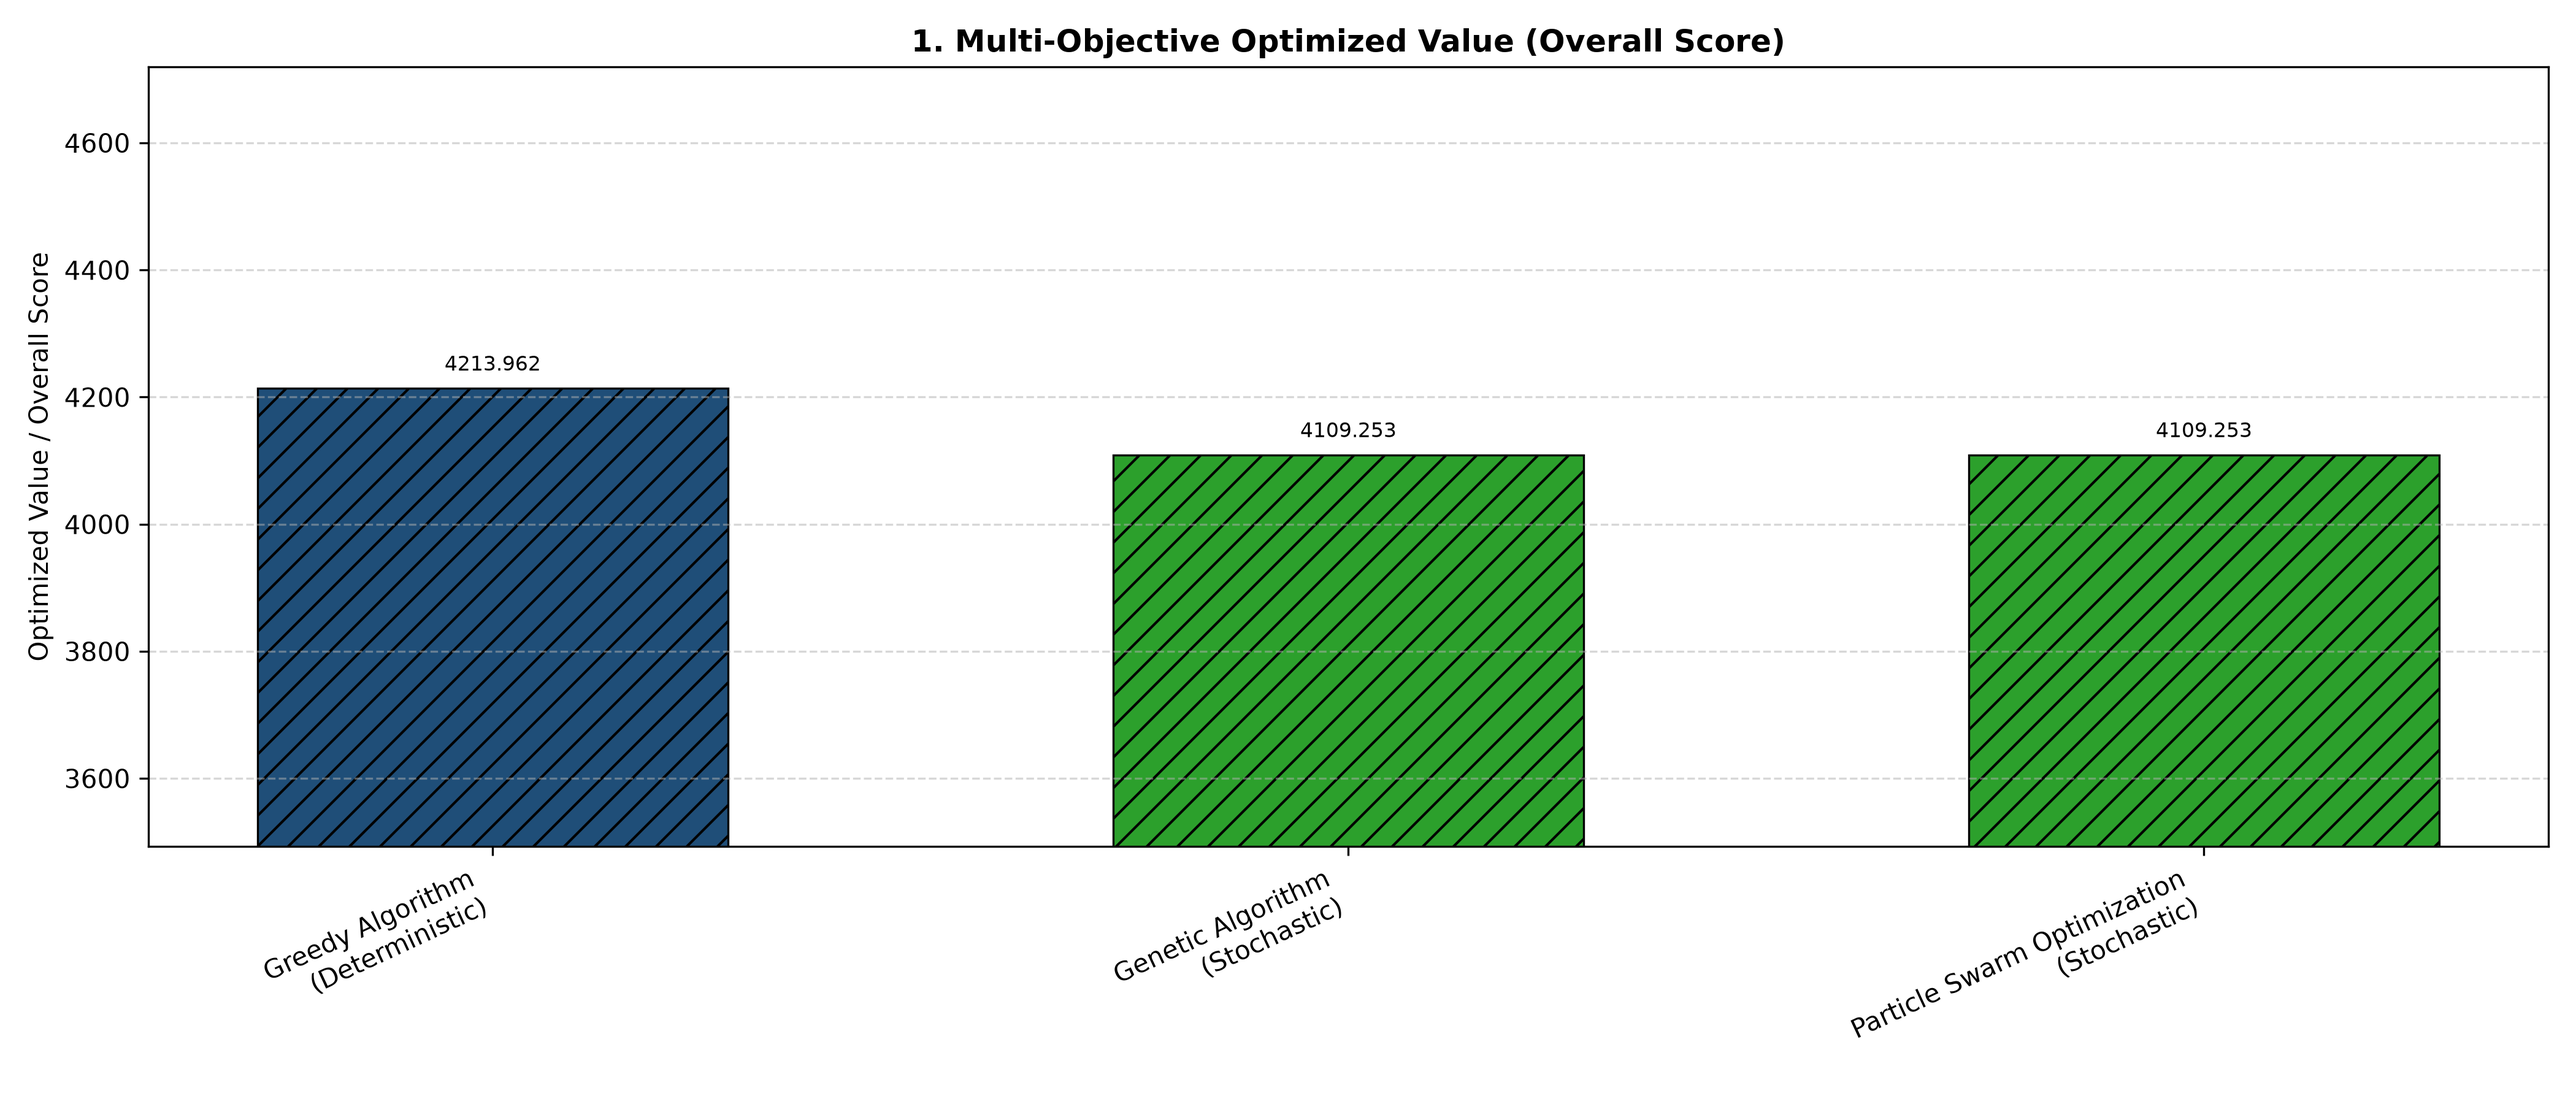
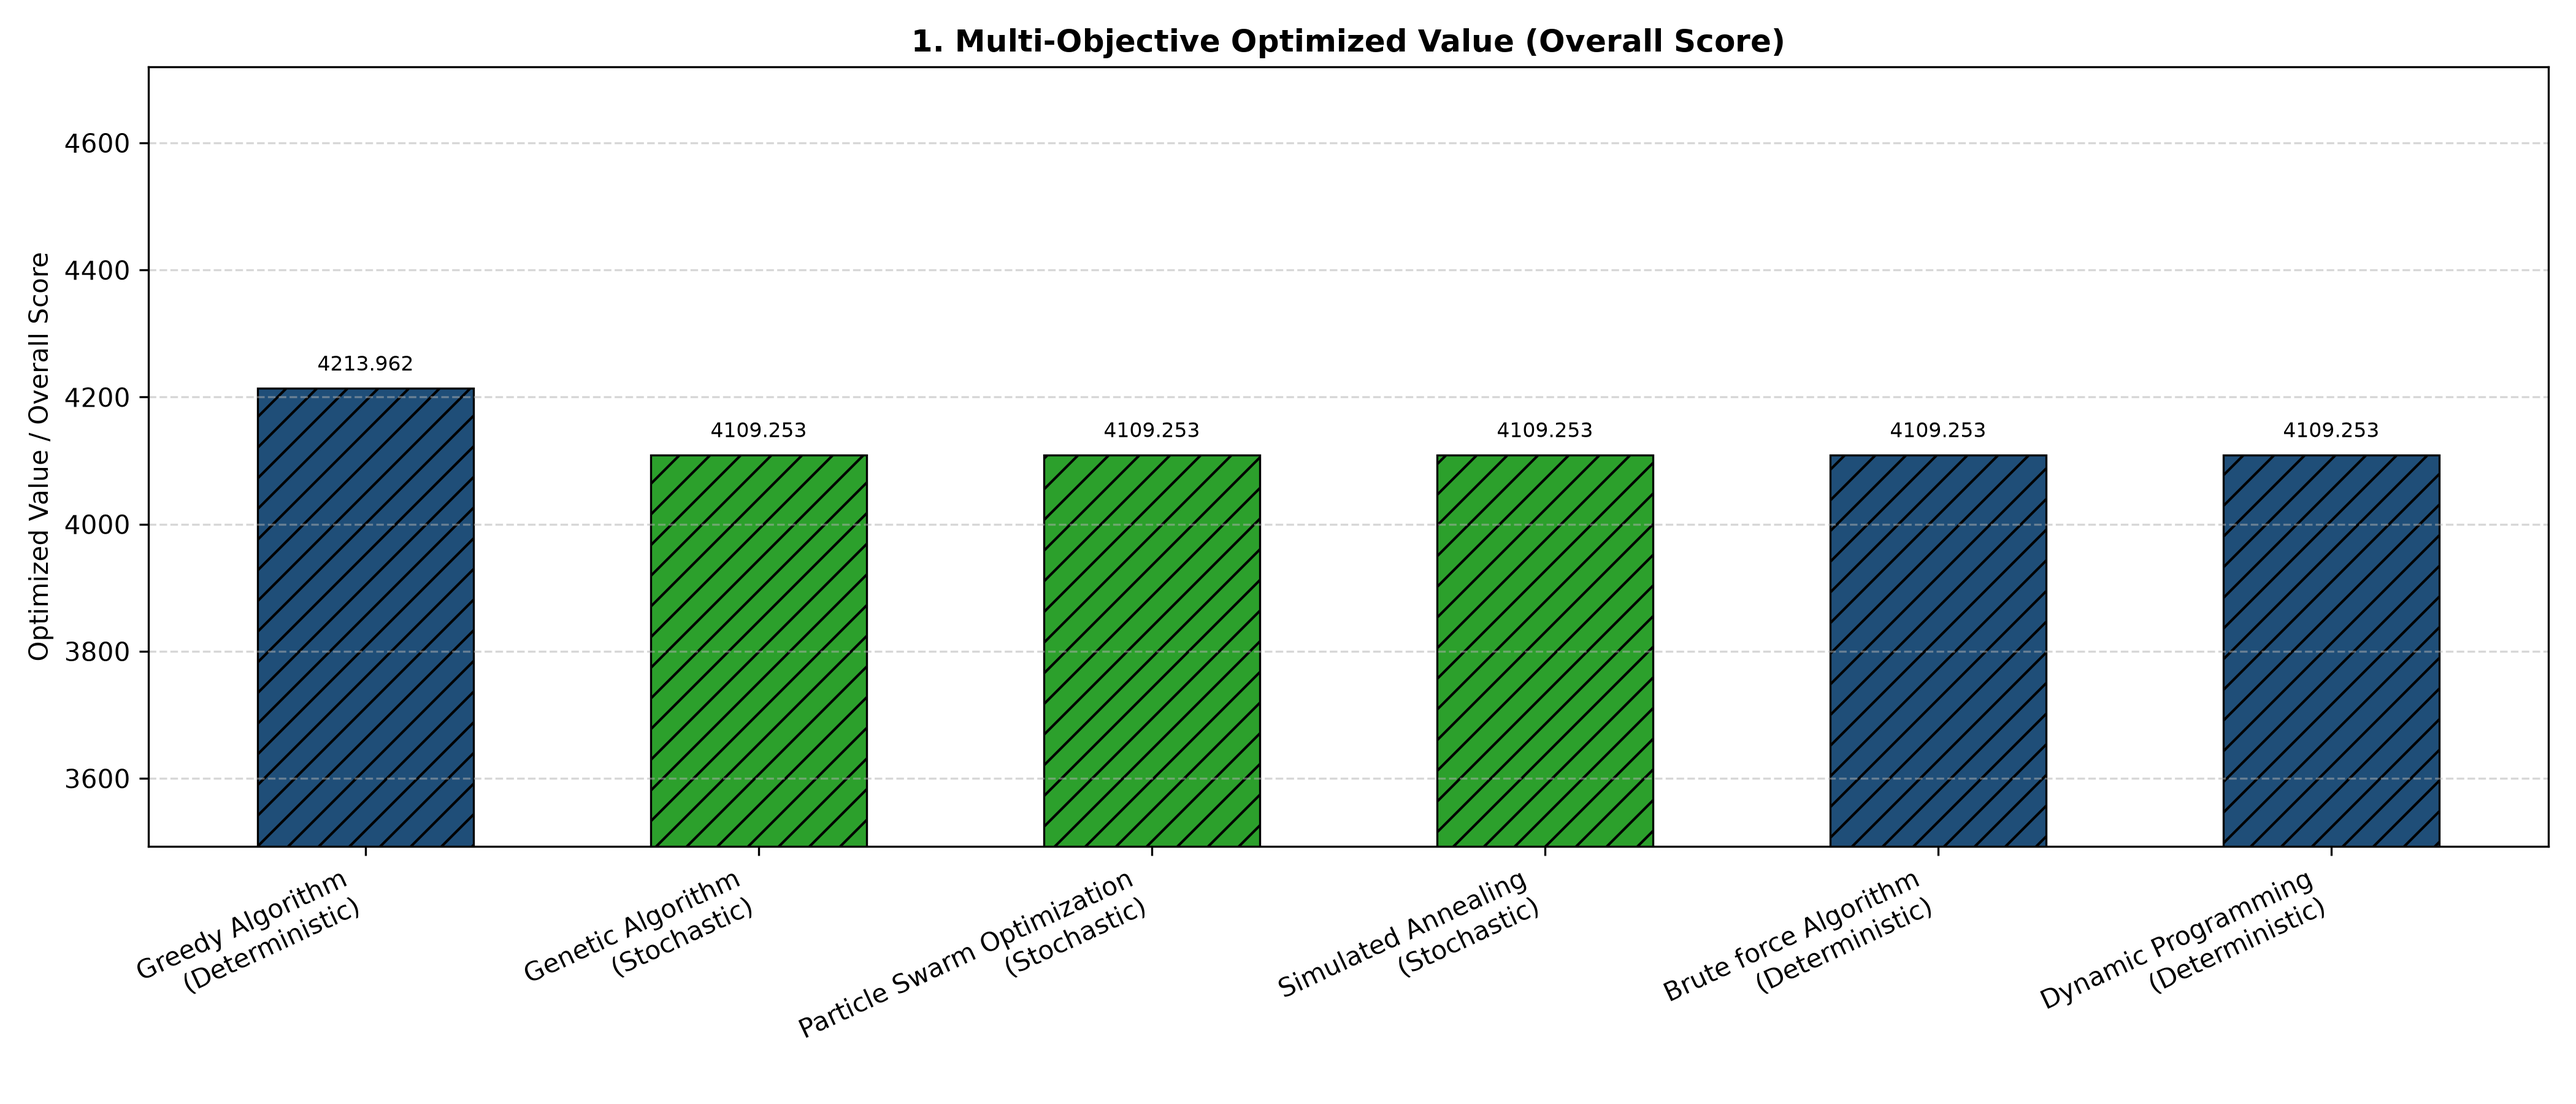
ivan algorithms implemented

diff --git a/tests/ivan_algorithm_experiment.py b/tests/ivan_algorithm_experiment.py
@@ -1,0 +1,122 @@
+import csv
+import os
+import time
+
+import numpy as np
+
+from cfg import city_names, num_runs, w1, w2, w3
+from data import cost_matrix, distance_matrix, time_matrix
+from tsp_common import objective_matrix, tour_score
+
+
+CSV_HEADER = [
+    "Algorithm",
+    "Overall Score",
+    "Distance (km)",
+    "Time (min)",
+    "Cost (BDT)",
+    "Mean Exec Time (s)",
+]
+
+STOCHASTIC_HEADER = [
+    "Algorithm",
+    "Mean",
+    "Median",
+    "Std Dev",
+    "Min",
+    "Max",
+    "Success Rate",
+    "Mean Exec Time (s)",
+]
+
+
+def _metrics(tour):
+    distance = sum(
+        distance_matrix[u, v] for u, v in zip(tour[:-1], tour[1:])
+    )
+    travel_time = sum(time_matrix[u, v] for u, v in zip(tour[:-1], tour[1:]))
+    cost = sum(cost_matrix[u, v] for u, v in zip(tour[:-1], tour[1:]))
+    return round(float(distance), 2), round(float(travel_time), 2), round(float(cost), 2)
+
+
+def _upsert_row(filename, header, row):
+    rows = []
+    if os.path.exists(filename):
+        with open(filename, newline="", encoding="utf-8") as file:
+            reader = csv.reader(file)
+            existing_header = next(reader, None)
+            if existing_header:
+                header = existing_header
+            rows = [existing_row for existing_row in reader
+                    if existing_row and existing_row[0] != row[0]]
+    rows.append(row)
+    with open(filename, "w", newline="", encoding="utf-8") as file:
+        writer = csv.writer(file)
+        writer.writerow(header)
+        writer.writerows(rows)
+
+
+def run_algorithm_experiment(algorithm_name, solver, *, stochastic=False):
+    """
+    The best run is written to results/algorithm_results.csv and aggregate
+    statistics for all runs are written to results/stochastic.csv.
+    """
+    weighted = objective_matrix()
+    execution_times = []
+    scores = []
+    best_tour = None
+    best_score = float("inf")
+
+    for run in range(num_runs):
+        seed = 40 + run
+        begin = time.perf_counter()
+        tour = solver(seed=seed) if stochastic else solver()
+        execution_times.append(time.perf_counter() - begin)
+        score = tour_score(tour, weighted)
+        scores.append(score)
+        if score < best_score:
+            best_score = score
+            best_tour = tour
+
+    distance, travel_time, cost = _metrics(best_tour)
+    mean_time = float(np.mean(execution_times))
+    reported_score = w1 * distance + w2 * travel_time + w3 * cost
+    os.makedirs("results", exist_ok=True)
+
+    _upsert_row(
+        "results/algorithm_results.csv",
+        CSV_HEADER,
+        [
+            algorithm_name,
+            f"{reported_score:.4f}",
+            f"{distance}",
+            f"{travel_time}",
+            f"{cost}",
+            f"{mean_time:.6f}",
+        ],
+    )
+
+    rounded_best = round(min(scores), 4)
+    success_count = sum(round(score, 4) == rounded_best for score in scores)
+    _upsert_row(
+        "results/stochastic.csv",
+        STOCHASTIC_HEADER,
+        [
+            algorithm_name,
+            f"{np.mean(scores):.4f}",
+            f"{np.median(scores):.4f}",
+            f"{np.std(scores):.4f}",
+            f"{np.min(scores):.4f}",
+            f"{np.max(scores):.4f}",
+            f"{success_count / num_runs * 100:.2f}%",
+            f"{mean_time:.6f}",
+        ],
+    )
+
+    print(f"{algorithm_name} results saved to results/algorithm_results.csv")
+    print("Best tour (indices):", " -> ".join(map(str, best_tour)))
+    if len(city_names) == len(best_tour) - 1:
+        print("Best tour (city names):", " -> ".join(city_names[i] for i in best_tour))
+    print(f"Best multi-objective score: {reported_score:.4f}")
+    print(f"Mean execution time: {mean_time:.6f} seconds")
+    return best_tour, reported_score

diff --git a/dynamic_programming.py b/dynamic_programming.py
@@ -1,0 +1,69 @@
+from tests.ivan_algorithm_experiment import run_algorithm_experiment
+from tsp_common import check_matrix, check_start, objective_matrix
+
+
+def dynamic_programming_tsp(start_city=0, weights=None):
+    """Return a minimum-weight directed TSP tour using Held-Karp DP.
+
+    `weights`: optional square matrix of directed edge costs. If omitted, use
+    the project's weighted distance, time, and fuel-cost objective.
+    """
+    matrix = check_matrix(objective_matrix() if weights is None else weights)
+    n = len(matrix)
+    check_start(start_city, n)
+    if n == 1:
+        return [start_city, start_city]
+
+    cities = [city for city in range(n) if city != start_city]
+    city_bits = {city: 1 << index for index, city in enumerate(cities)}
+    costs = {}
+    paths = {}
+
+    for city in cities:
+        state = city_bits[city]
+        costs[(state, city)] = float(matrix[start_city, city])
+        paths[(state, city)] = [start_city, city]
+
+    for subset_size in range(2, n):
+        for subset in range(1 << len(cities)):
+            if subset.bit_count() != subset_size:
+                continue
+            for last_city in cities:
+                last_bit = city_bits[last_city]
+                if not subset & last_bit:
+                    continue
+                previous_subset = subset ^ last_bit
+                candidates = [
+                    previous_city
+                    for previous_city in cities
+                    if previous_subset & city_bits[previous_city]
+                ]
+                best_state = min(
+                    candidates,
+                    key=lambda previous_city: (
+                        costs[(previous_subset, previous_city)]
+                        + float(matrix[previous_city, last_city]),
+                        previous_city,
+                    ),
+                )
+                costs[(subset, last_city)] = (
+                    costs[(previous_subset, best_state)]
+                    + float(matrix[best_state, last_city])
+                )
+                paths[(subset, last_city)] = (
+                    paths[(previous_subset, best_state)] + [last_city]
+                )
+
+    full_subset = (1 << len(cities)) - 1
+    best_last_city = min(
+        cities,
+        key=lambda city: (
+            costs[(full_subset, city)] + float(matrix[city, start_city]),
+            city,
+        ),
+    )
+    return paths[(full_subset, best_last_city)] + [start_city]
+
+
+if __name__ == "__main__":
+    run_algorithm_experiment("Dynamic Programming", dynamic_programming_tsp)

diff --git a/simulated_annealing.py b/simulated_annealing.py
@@ -1,0 +1,79 @@
+import math
+
+import numpy as np
+
+from tests.ivan_algorithm_experiment import run_algorithm_experiment
+from tsp_common import check_matrix, check_start, objective_matrix
+
+
+SA_INITIAL_TEMPERATURE = 1000.0
+SA_COOLING_RATE = 0.995
+SA_ITERATIONS = 5000
+
+
+def simulated_annealing_tsp(
+    start_city=0,
+    weights=None,
+    *,
+    initial_temperature=SA_INITIAL_TEMPERATURE,
+    cooling_rate=SA_COOLING_RATE,
+    iterations=SA_ITERATIONS,
+    seed=40,
+):
+    """Return the best directed TSP tour found by simulated annealing.
+
+    `weights`: optional square matrix of directed edge costs. If omitted, use
+    the project's weighted distance, time, and fuel-cost objective.
+    """
+    matrix = check_matrix(objective_matrix() if weights is None else weights)
+    n = len(matrix)
+    check_start(start_city, n)
+
+    if initial_temperature <= 0:
+        raise ValueError("initial_temperature must be positive")
+    if not 0 < cooling_rate < 1:
+        raise ValueError("cooling_rate must be between 0 and 1")
+    if not isinstance(iterations, (int, np.integer)) or iterations < 1:
+        raise ValueError("iterations must be a positive integer")
+
+    if n == 1:
+        return [start_city, start_city]
+
+    rng = np.random.default_rng(seed)
+    cities = [city for city in range(n) if city != start_city]
+    current = [int(city) for city in rng.permutation(cities)]
+
+    def score(permutation):
+        tour = [start_city, *permutation, start_city]
+        return float(sum(matrix[u, v] for u, v in zip(tour[:-1], tour[1:])))
+
+    current_score = score(current)
+    best = current[:]
+    best_score = current_score
+    temperature = float(initial_temperature)
+
+    for _ in range(int(iterations)):
+        candidate = current[:]
+        first, second = rng.choice(len(candidate), size=2, replace=False)
+        candidate[first], candidate[second] = candidate[second], candidate[first]
+        candidate_score = score(candidate)
+        difference = candidate_score - current_score
+
+        if difference < 0 or rng.random() < math.exp(-difference / temperature):
+            current = candidate
+            current_score = candidate_score
+            if current_score < best_score:
+                best = current[:]
+                best_score = current_score
+
+        temperature = max(temperature * cooling_rate, 1e-12)
+
+    return [start_city, *best, start_city]
+
+
+if __name__ == "__main__":
+    run_algorithm_experiment(
+        "Simulated Annealing",
+        simulated_annealing_tsp,
+        stochastic=True,
+    )

diff --git a/brute_force.py b/brute_force.py
@@ -1,0 +1,38 @@
+import itertools
+
+from tests.ivan_algorithm_experiment import run_algorithm_experiment
+from tsp_common import check_matrix, check_start, objective_matrix
+
+
+def brute_force_tsp(start_city=0, weights=None):
+    """Return a minimum-weight Hamiltonian cycle by exhaustive enumeration.
+
+    `weights`: optional square matrix of directed edge costs. If omitted, use
+    the project's weighted distance, time, and fuel-cost objective.
+    """
+    matrix = check_matrix(objective_matrix() if weights is None else weights)
+    n = len(matrix)
+    check_start(start_city, n)
+
+    if n == 1:
+        return [start_city, start_city]
+
+    other_cities = [city for city in range(n) if city != start_city]
+    best_tour = None
+    best_score = float("inf")
+
+    for permutation in itertools.permutations(other_cities):
+        tour = [start_city, *permutation, start_city]
+        score = sum(
+            float(matrix[current, next_city])
+            for current, next_city in zip(tour[:-1], tour[1:])
+        )
+        if score < best_score - 1e-9:
+            best_score = score
+            best_tour = tour
+
+    return best_tour
+
+
+if __name__ == "__main__":
+    run_algorithm_experiment("Brute force Algorithm", brute_force_tsp)

diff --git a/README.md b/README.md
@@ -26,16 +26,63 @@ Pre vyváženú optimalizáciu trasy sa používajú nasledujúce váhy kritéri
 
 1. Uistite sa, že máte nainštalovaný **Python** (odporúčaná verzia 3.11.0 alebo novšia).
 2. Stiahnite si alebo klonujte projekt do svojho lokálneho adresára.
-3. Otvorte terminál/príkazový riadok v koreňovom priečinku projektu (`tsp-tourist-optimization`) a nainštalujte potrebné závislosti:
+3. Otvorte terminál/príkazový riadok v koreňovom priečinku projektu (`tsp-tourist-optimization`).
+4. Nainštalujte potrebné závislosti:
+
+```powershell
+python -m pip install -r requirements.txt
+```
+
+## Spoločné nastavenia a výsledky
+
+Všetky algoritmy používajú rovnaké matice z `data.py`, začínajú aj končia
+v meste Chattogram (index `0`) a optimalizujú váženú funkciu:
+
+```text
+0.3 * distance + 0.4 * time + 0.3 * cost
+```
+
+Výsledky algoritmov sa ukladajú do:
+
+* `results/algorithm_results.csv` – najlepší nájdený výsledok a priemerný čas.
+* `results/stochastic.csv` – štatistiky opakovaných behov (priemer, medián,
+  smerodajná odchýlka, minimum, maximum, úspešnosť a priemerný čas).
+
+Deterministické algoritmy sa spúšťajú desaťkrát na meranie času. Simulated
+Annealing používa desať behov so seedmi `40` až `49`.
 
 ## Spustenie projektu
 
-Všetky súbory sa spúšťajú z koreňového adresára projektu pomocou príkazu `python` a názvu súboru:
+Všetky príkazy spúšťajte z koreňového adresára projektu pomocou príkazu
+`python` a názvu súboru:
 
 * `particle_swarm.py` – spustenie algoritmu Particle Swarm Optimization.
 * `greedy_algorithm.py` – spustenie hladového algoritmu.
 * `genetic_algorithm.py` – spustenie genetického algoritmu.
+* `ant_colony.py` – spustenie algoritmu Ant Colony Optimization.
+* `branch_and_bound.py` – spustenie algoritmu Branch and Bound.
+* `nearest_neighbor.py` – spustenie algoritmu Nearest Neighbor.
+* `brute_force.py` – exaktné riešenie úplnou enumeráciou všetkých trás.
+* `dynamic_programming.py` – exaktné riešenie pomocou Held-Karp dynamic programming.
+* `simulated_annealing.py` – stochastický algoritmus Simulated Annealing.
 * `data.py` – uchovávanie údajov o vzdialenostiach, čase a finančných nákladoch. *(Údaje sa pripravia automaticky, preto nie je potrebné spúšťať tento súbor samostatne).*
 * `results.py` – vizualizácia výsledkov.
 * `experiment.py` – čítanie výsledkov a prehľadná vizualizácia metrík vo forme formátovanej tabuľky v termináli.
-* `results.py` – vizualizácia výsledkov.
+
+Príklady:
+
+```powershell
+python brute_force.py
+python dynamic_programming.py
+python simulated_annealing.py
+python experiment.py
+python results.py
+```
+
+## Testy
+
+Testy algoritmov Matsvei sa spúšťajú z koreňového adresára takto:
+
+```powershell
+python -m unittest discover -s tests -v
+```
